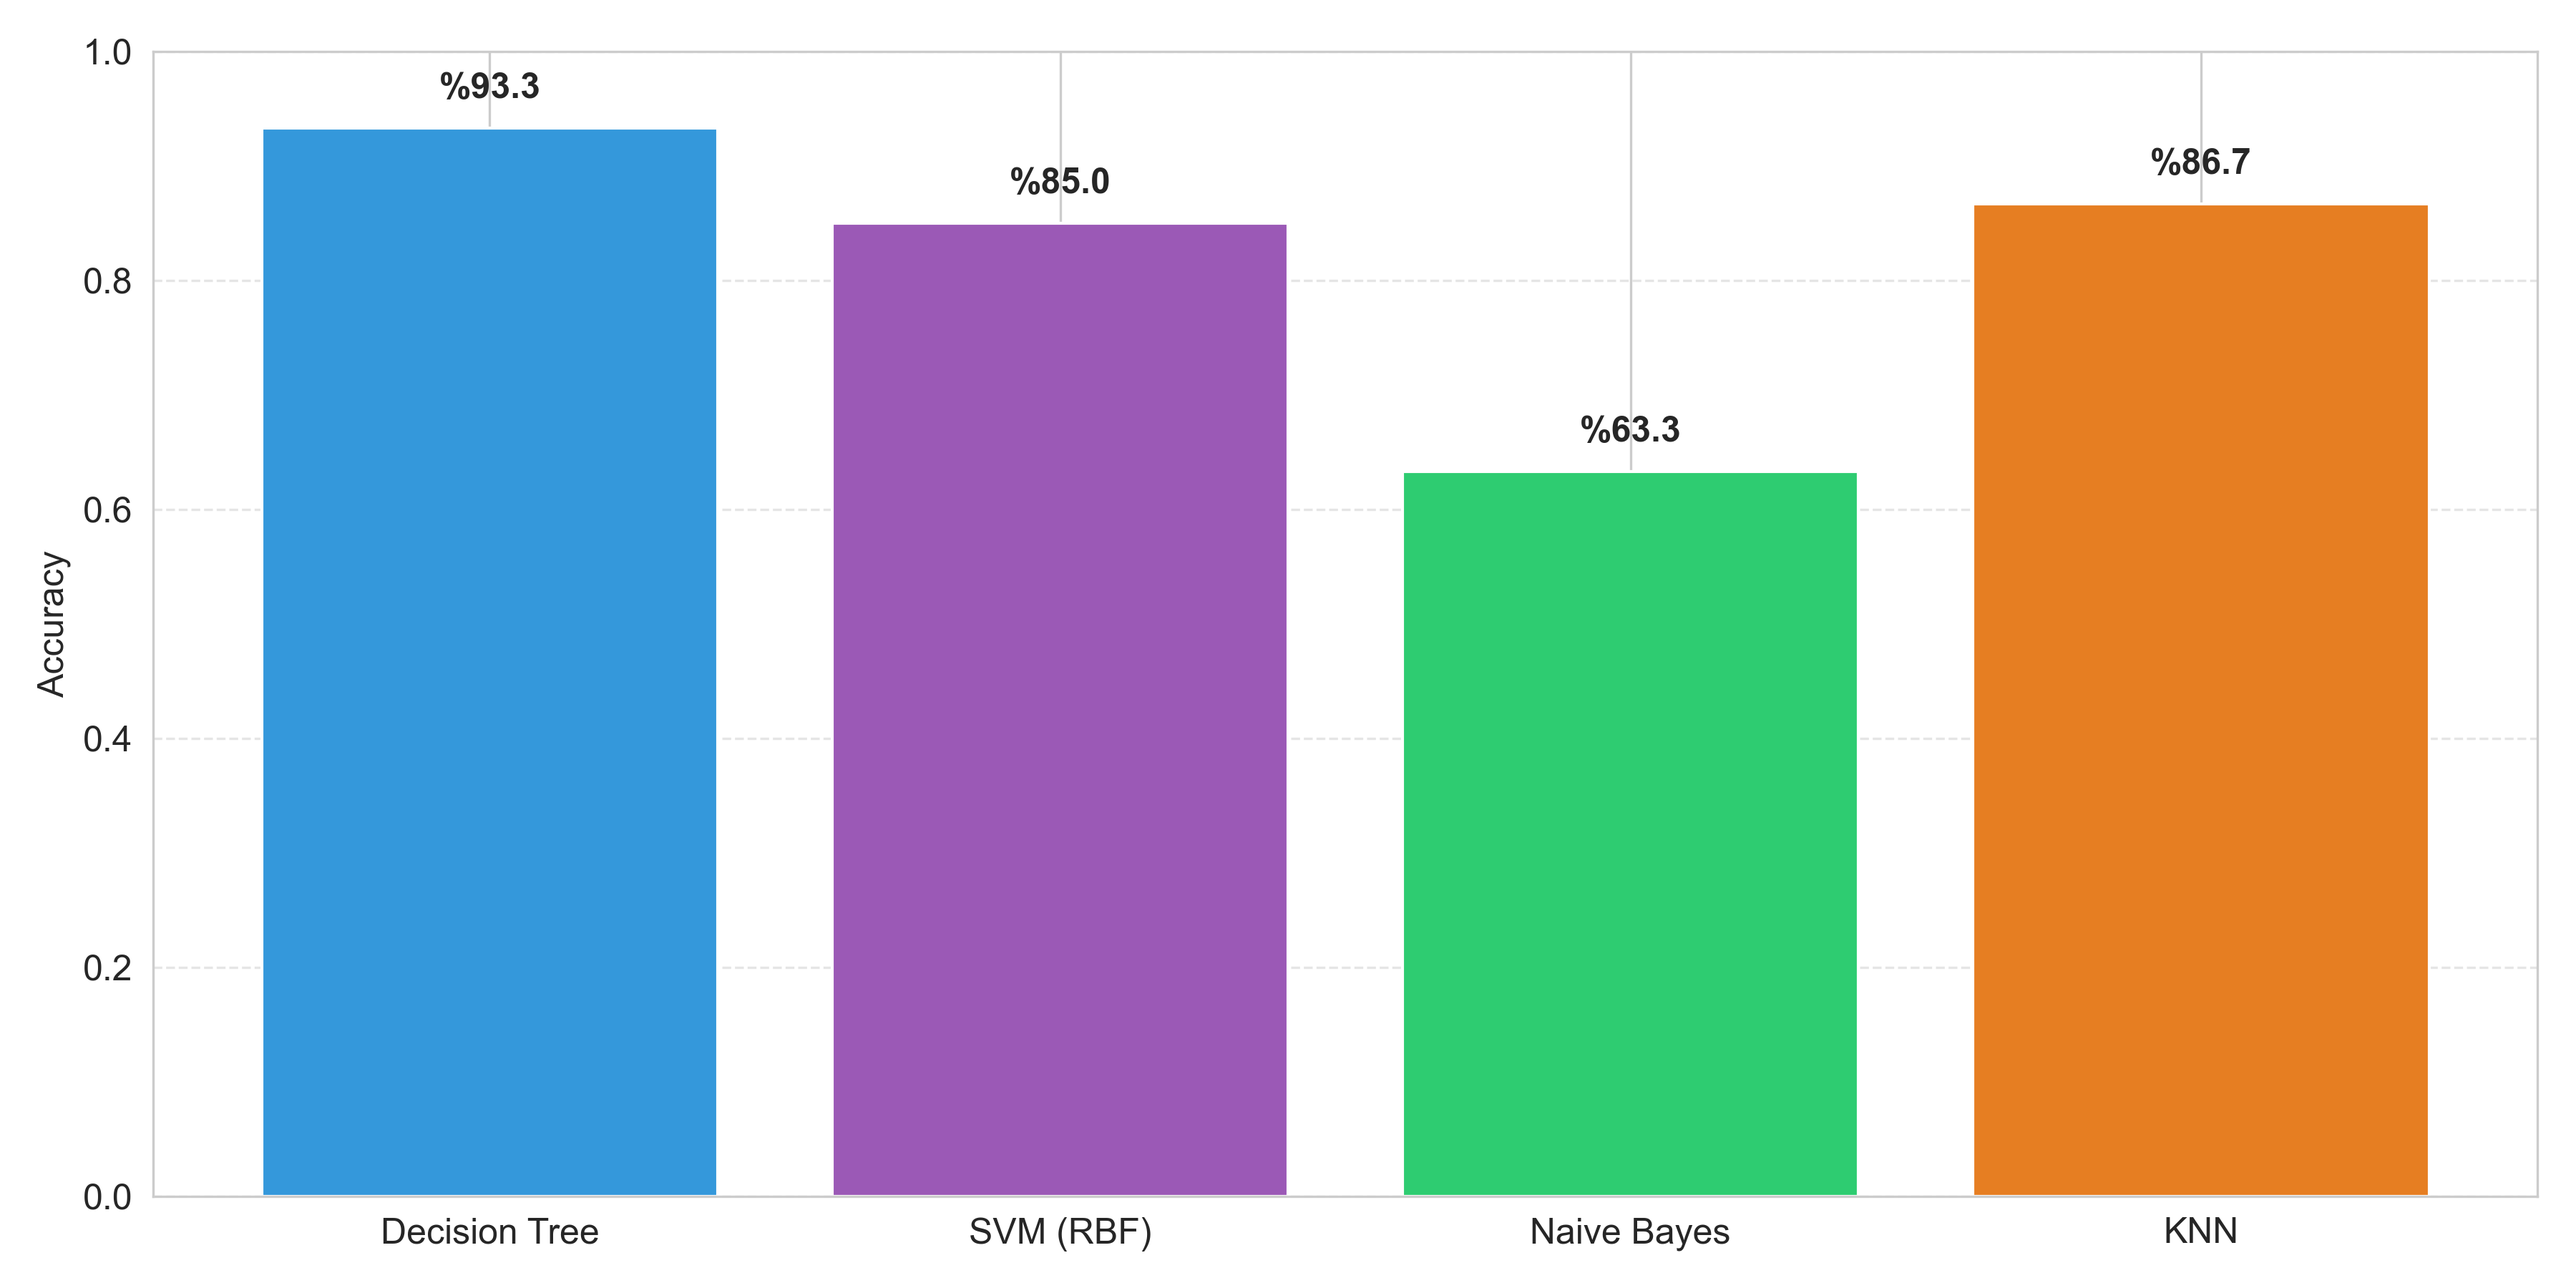
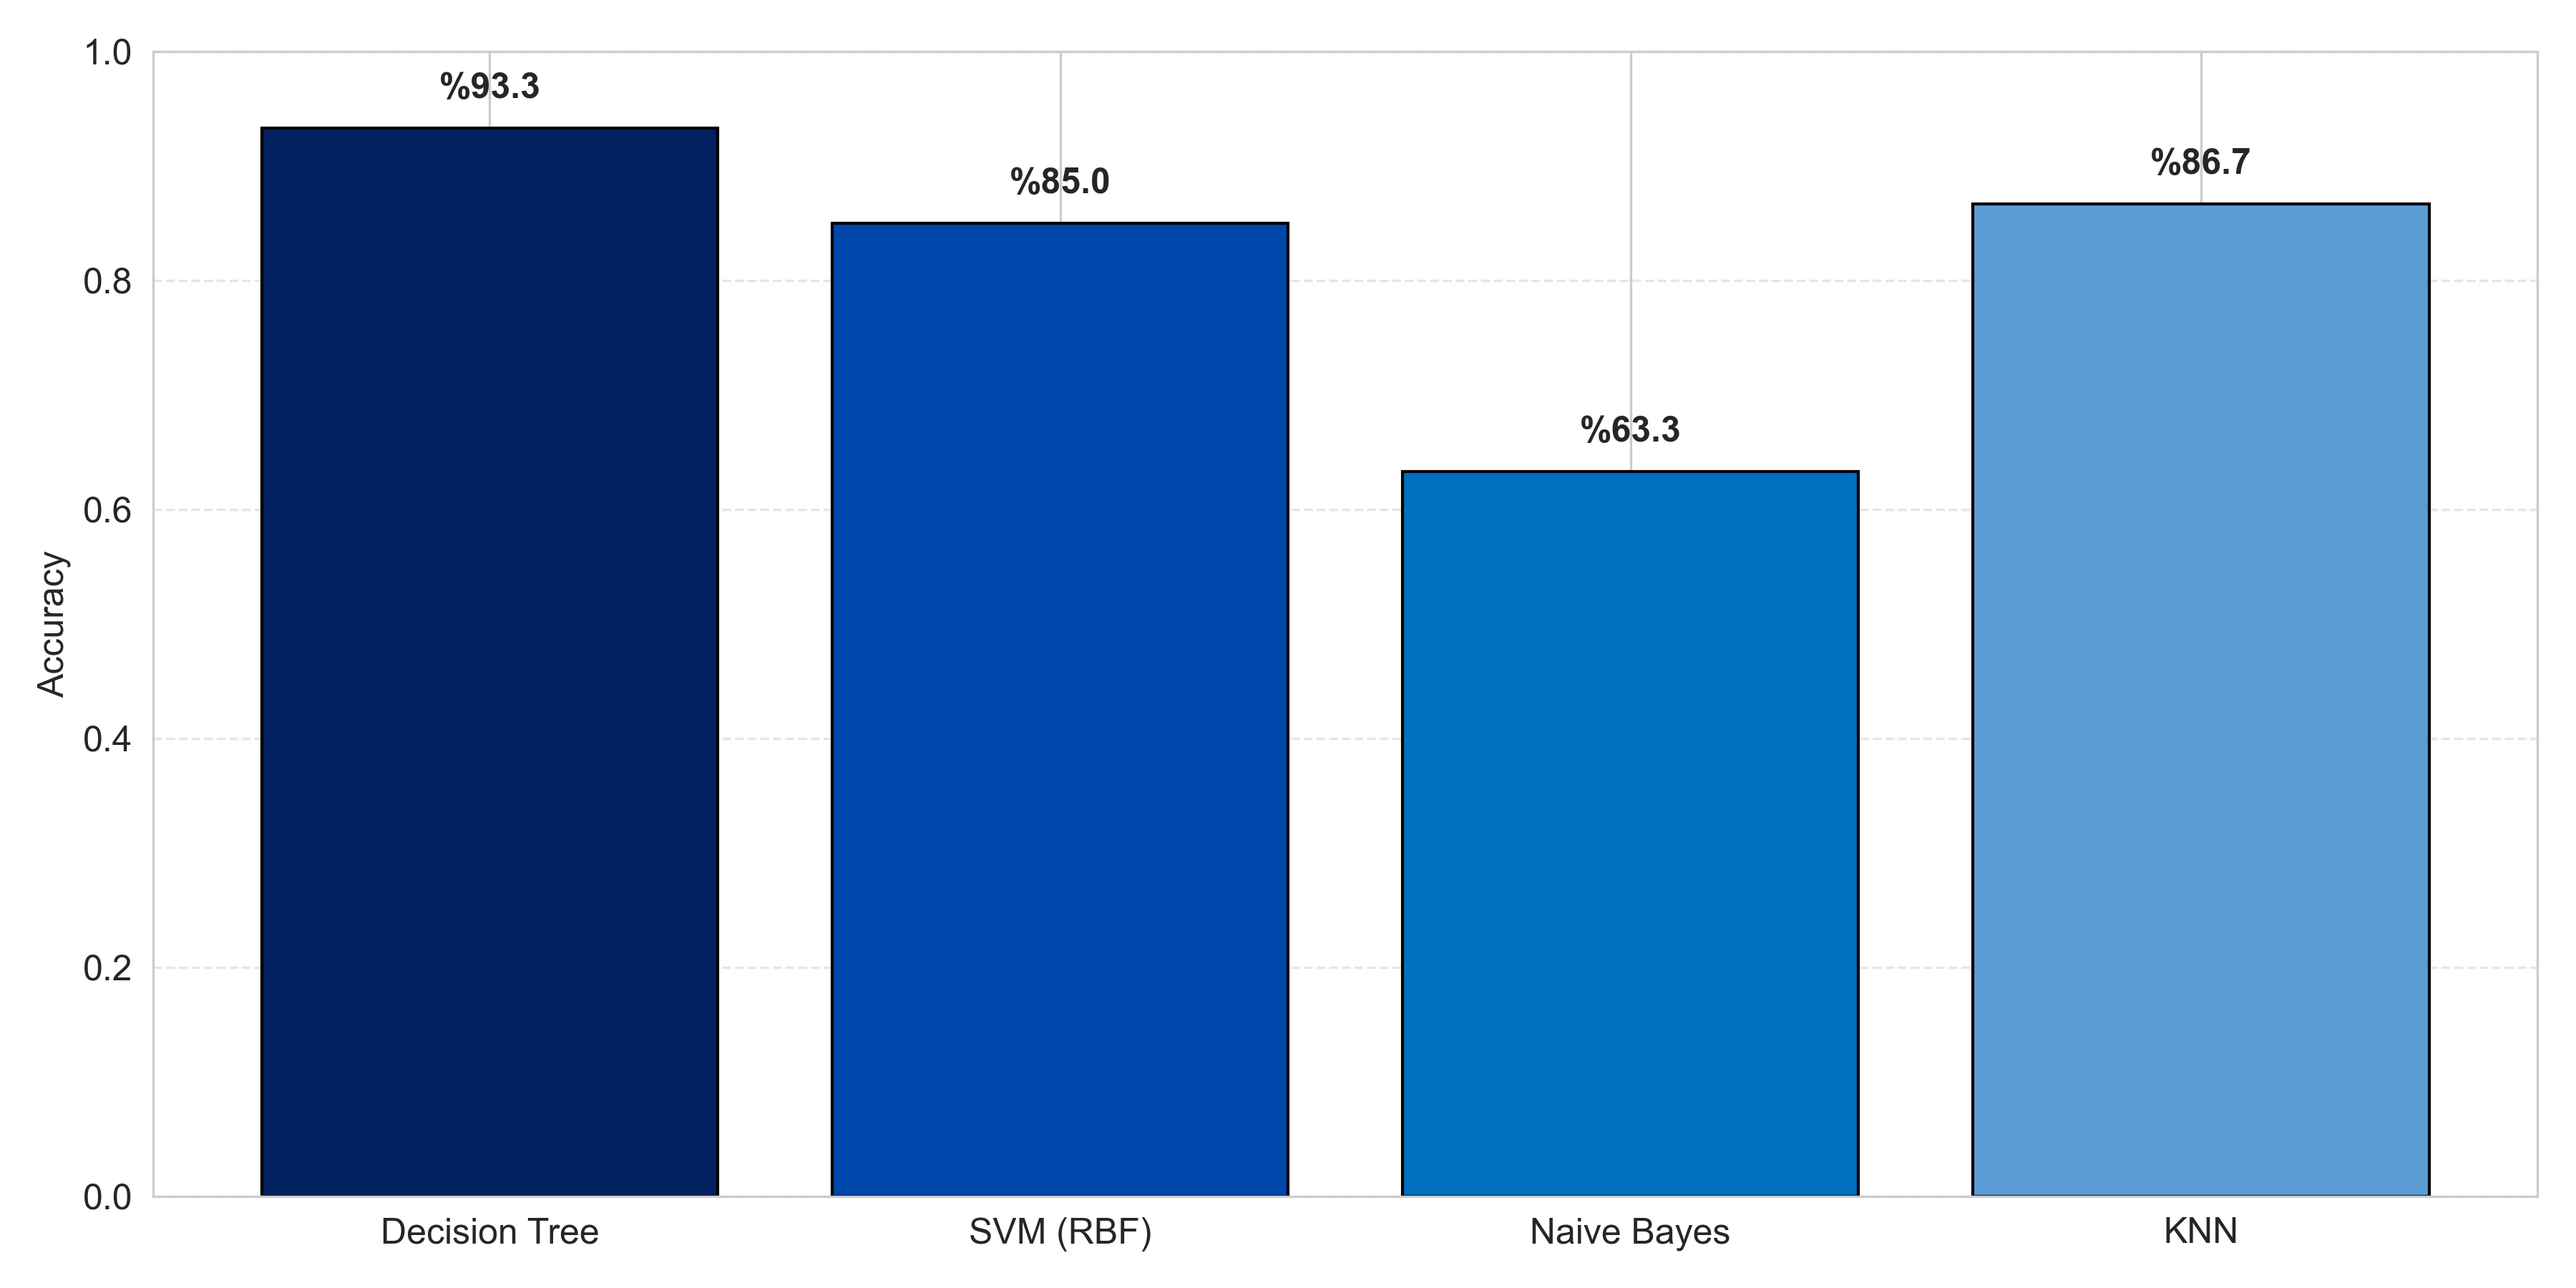
Color update

diff --git a/classification/classification.py b/classification/classification.py
@@ -320,7 +320,10 @@ def train_and_compare_models_time_series(df):
     #  Bar Plot Comparison
     # =======================
     plt.figure(figsize=(12, 6))
-    bars = plt.bar(results.keys(), results.values(), color=['#3498db', '#9b59b6', '#2ecc71', '#e67e22'])
+    # Çok Koyu Lacivert -> Kobalt -> Gök Mavisi -> Pastel Mavi
+    bars = plt.bar(results.keys(), results.values(),
+                   color=['#002060', '#0047AB', '#0070C0', '#5B9BD5'],
+                   edgecolor='black', linewidth=1)
     plt.ylim(0, 1.0)
     plt.ylabel('Accuracy')
     plt.grid(axis='y', linestyle='--', alpha=0.5)
